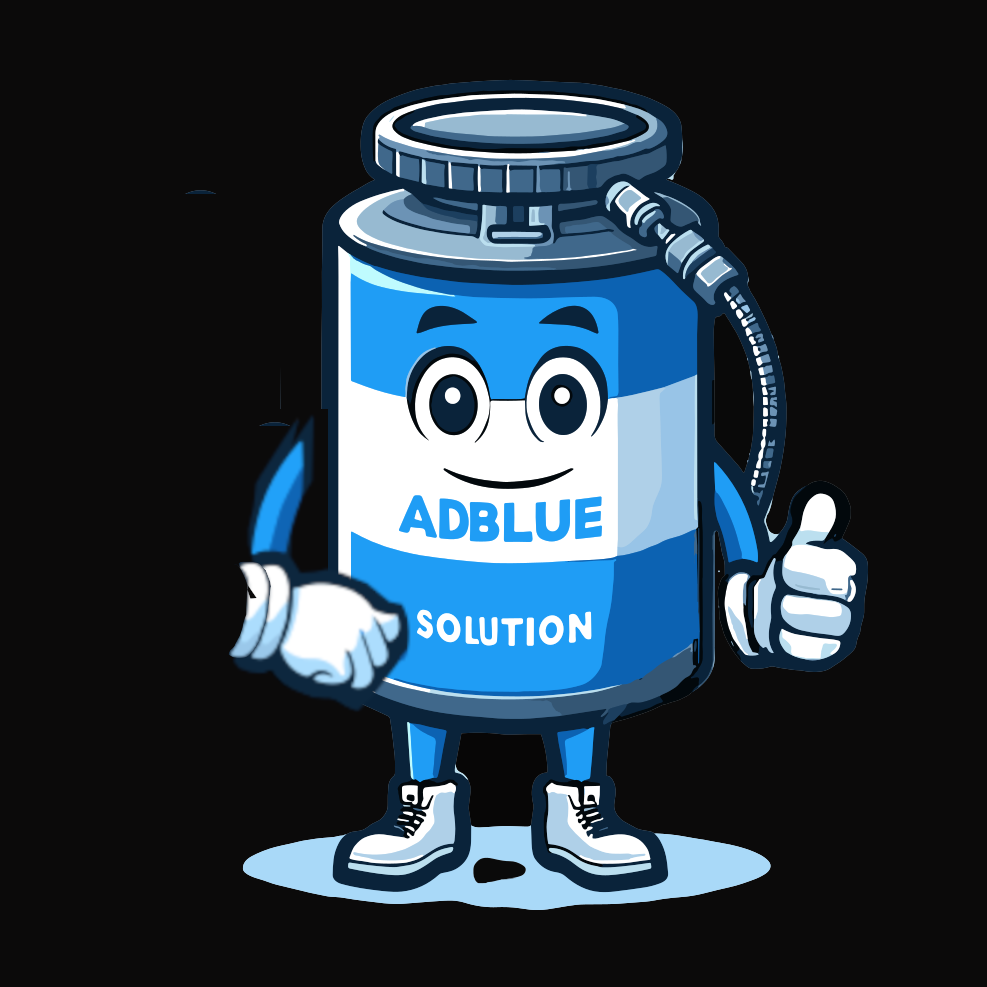
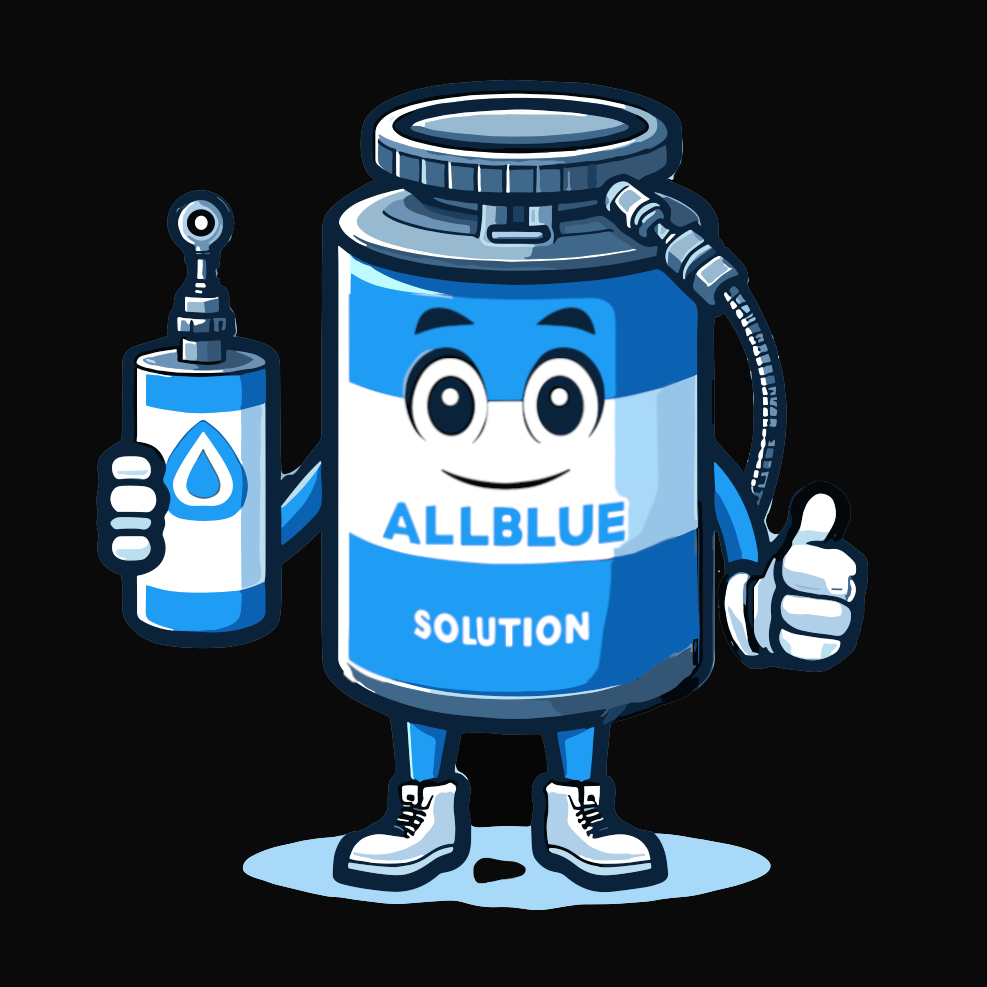
Change to Allblue - 1

Changed region(s): [[0.0912, 0.1824, 0.6383, 0.7295], [0.3343, 0.3647, 0.3647, 0.3951]]

diff --git a/src/pages/About.jsx b/src/pages/About.jsx
@@ -19,37 +19,40 @@ const About = () => {
             <div className="col-md pt-4 pt-xs-2 pt-lg-4">
               <h2 className="pb-2">Who We Are</h2>
               <p className="lead">
-                Adblue Solution are a group of Adblue delete specialists based
+                Allblue Solution are a group of Adblue delete specialists based
                 throughout the UK.
               </p>
-              <p>
+              <p className="lead">
                 We only use technicians with a high level of experience and
                 expertise with an average of 18 years in the business, and we
                 only use the latest in ECU programming equipment (NO CHINESE
                 CLONES) and OUR software which is fully supported by the
                 software developers should we ever need it.
               </p>
-              <p>
+              <p className="lead">
                 We will do a full vehicle diagnostic scan to check all of the
                 cars software and modules so we have a full understanding of
                 what we are dealing with and know exactly what the issue is
                 before we carry out any work. So as a customer you can be rest
                 assured that you are in safe hands at all times.
               </p>
-              <p>
+              <p className="lead">
                 Our goal is to keep you on or get you back on the road without
                 any Adblue Issues, so our customers are always our top priority
                 and we won’t keep you waiting for days to get a confirmed
                 booking.
               </p>
-              <p>
+              <p className="lead">
                 We offer a complete ECU service, not just Adblue delete. For
                 more information please see our services page.
               </p>
-              <a href="/services" className="btn btn-light mt-3">
+              <a href="/services" className="btn btn-light">
                 <i
                   className="fa fa-chevron-right"
-                  style={{ marginRight: "10px" }}
+                  style={{
+                    marginRight: "10px",
+                    backgroundColor: "transparent",
+                  }}
                 ></i>
                 Find Out More
               </a>
@@ -70,9 +73,9 @@ const About = () => {
               />
             </div>
             <div className="col-md pt-2 px-3 pt-sm-0 pb-sm-2 px-sm-4 pt-md-4 py-lg-4">
-              <h2 className="pb-3">AdBlue Solution</h2>
+              <h2 className="pb-3">Allblue Solution</h2>
               <p>
-                At Adblue Solution, with over 15 years in the Engine ECU
+                At Allblue Solution, with over 15 years in the Engine ECU
                 Reprogramming business, we offer an AdBlue removal service that
                 is second to none, for both you and your vehicle. The best part?
                 Say goodbye to all those annoying warning lights and dashboard
@@ -81,11 +84,11 @@ const About = () => {
                 faults nagging at you.
               </p>
               <p>
-                Our Adblue Solution delete is undetectable at the MOT STATION.
+                Our Allblue Solution delete is undetectable at the MOT STATION.
               </p>
               <p>
                 But here's the thing: not all removals are created equal. That's
-                where Adblue Solution shines. We use only genuine specialized
+                where Allblue Solution shines. We use only genuine specialized
                 equipment and UK-based technology with in-house programmers to
                 ensure a safe and risk-free process for your vehicle. No
                 mechanical changes are usually necessary, although some sensors
@@ -93,12 +96,12 @@ const About = () => {
               </p>
               <p>
                 So why settle for anything less when you can trust the experts
-                at Adblue Solution to get the job done?
+                at Allblue Solution to get the job done?
               </p>
               <p>
                 Using our advanced software, we remove and disable the AdBlue
                 system, ensuring your vehicle operates normally without ever
-                needing an AdBlue refill again. With AdBlue Solution, you can
+                needing an AdBlue refill again. With Allblue Solution, you can
                 save money, boost power, and enjoy your vehicle without the
                 usual AdBlue inconveniences.
               </p>

diff --git a/src/pages/Homepage.jsx b/src/pages/Homepage.jsx
@@ -68,7 +68,7 @@ const Homepage = () => {
                 background: "none",
               }}
             >
-              Welcome To Adblue Solution
+              Welcome To Allblue Solution
             </h1>
           </div>
 
@@ -124,7 +124,7 @@ const Homepage = () => {
                   Fully Mobile Service - We Come To You!
                 </h2>
                 <p className="pb-1">
-                  Look no further than Adblue Solution for a trustworthy AdBlue
+                  Look no further than Allblue Solution for a trustworthy AdBlue
                   removal service right in your neighbourhood! Our team of
                   certified AdBlue delete specialists are dedicated to providing
                   top-notch service at unbeatable prices. Plus, with our
@@ -139,7 +139,7 @@ const Homepage = () => {
                   base.
                 </p>
                 <p className="pb-1">
-                  Trust Adblue Solution for reliable AdBlue removal right in
+                  Trust Allblue Solution for reliable AdBlue removal right in
                   your neighbourhood! Our certified specialists provide
                   top-notch service at unbeatable prices, with the added
                   convenience of our mobile service – we come to you!
@@ -152,7 +152,7 @@ const Homepage = () => {
               <img
                 style={{ height: "auto", maxWidth: "100%" }}
                 className="img-fluid"
-                src="/assets/van man white background no slogan.png"
+                src="/assets/van_man_white_background_no_slogan_2-removebg-preview.png"
                 alt=""
               />
             </Col>
@@ -203,7 +203,7 @@ const Homepage = () => {
                 multiple vehicle bookings.
               </p>
               <p>
-                At Adblue Solution, we are dedicated to providing AdBlue
+                At Allblue Solution, we are dedicated to providing AdBlue
                 solutions to customers across a wide geographic area. Our
                 comprehensive coverage ensures that, no matter where you are,
                 you can access the high-quality products and services you need
@@ -213,8 +213,8 @@ const Homepage = () => {
                 With a focus on reliability and professionalism, our
                 comprehensive coverage guarantees access to premium products and
                 services essential for maintaining the smooth operation of your
-                vehicles. Count on Adblue Solution to be your trusted partner in
-                keeping your fleet running efficiently and responsibly.
+                vehicles. Count on Allblue Solution to be your trusted partner
+                in keeping your fleet running efficiently and responsibly.
               </p>
             </Container>
             <p className="lead pt-3" style={{ fontWeight: "bold" }}>

diff --git a/src/pages/TermsAndConditions.jsx b/src/pages/TermsAndConditions.jsx
@@ -8,27 +8,27 @@ const TermsAndConditions = () => {
       <div className="px-2 ">
         <p>
           These terms and conditions outline the rules and regulations for the
-          use of AdBlue Solution's Website, located at www.adbluesolution.com.
+          use of Allblue Solution's Website, located at www.adbluesolution.com.
         </p>
         <p>
           By accessing this website we assume you accept these terms and
-          conditions. Do not continue to use AdBlue Solution if you do not agree
-          to accept all of the terms and conditions stated on this page.
+          conditions. Do not continue to use Allblue Solution if you do not
+          agree to accept all of the terms and conditions stated on this page.
         </p>
         <h3>License</h3>
         <p>
-          Unless otherwise stated, AdBlue Solution and/or its licensors own the
-          intellectual property rights for all material on AdBlue Solution. All
+          Unless otherwise stated, Allblue Solution and/or its licensors own the
+          intellectual property rights for all material on Allblue Solution. All
           intellectual property rights are reserved. You may access this from
-          AdBlue Solution for your own personal use subjected to restrictions
+          Allblue Solution for your own personal use subjected to restrictions
           set in these terms and conditions.
         </p>
         <p>You must not:</p>
         <ul>
-          <li>Republish material from AdBlue Solution</li>
-          <li>Sell, rent or sub-license material from AdBlue Solution</li>
-          <li>Reproduce, duplicate or copy material from AdBlue Solution</li>
-          <li>Redistribute content from AdBlue Solution</li>
+          <li>Republish material from Allblue Solution</li>
+          <li>Sell, rent or sub-license material from Allblue Solution</li>
+          <li>Reproduce, duplicate or copy material from Allblue Solution</li>
+          <li>Redistribute content from Allblue Solution</li>
         </ul>
         <h3>Contact Information</h3>
         <p>

diff --git a/src/pages/Faqs.jsx b/src/pages/Faqs.jsx
@@ -10,10 +10,10 @@ const FaqAccordion = () => {
       <div className="d-flex justify-content-center pb-5">
         <Accordion className="w-75">
           <Accordion.Item eventKey="0">
-            <Accordion.Header>Who is Adblue Solution?</Accordion.Header>
+            <Accordion.Header>Who is Allblue Solution?</Accordion.Header>
             <Accordion.Body>
               <em>
-                Adblue Solution is a group of specialists in Adblue deletion
+                Allblue Solution is a group of specialists in Adblue deletion
                 based throughout the UK. With an average of 18 years of
                 experience, our technicians use the latest ECU programming
                 equipment and proprietary software to provide top-quality
@@ -34,7 +34,7 @@ const FaqAccordion = () => {
           </Accordion.Item>
           <Accordion.Item eventKey="2">
             <Accordion.Header>
-              How does Adblue Solution differ from others?
+              How does Allblue Solution differ from others?
             </Accordion.Header>
             <Accordion.Body>
               <em>
@@ -46,10 +46,10 @@ const FaqAccordion = () => {
             </Accordion.Body>
           </Accordion.Item>
           <Accordion.Item eventKey="3">
-            <Accordion.Header>Why choose Adblue Solution?</Accordion.Header>
+            <Accordion.Header>Why choose Allblue Solution?</Accordion.Header>
             <Accordion.Body>
               <em>
-                Choosing Adblue Solution guarantees a hassle-free experience.
+                Choosing Allblue Solution guarantees a hassle-free experience.
                 Our advanced software enables seamless Adblue system removal,
                 saving you money, boosting power, and eliminating the
                 inconveniences associated with Adblue refills.

diff --git a/src/pages/Disclaimer.jsx b/src/pages/Disclaimer.jsx
@@ -10,10 +10,10 @@ const Disclaimer = () => {
               <h2 className="pb-3">Legal Disclaimer and Guidance</h2>
               <div className="container">
                 <p>
-                  <span style={{ fontWeight: "bold" }}>DISCLAIMER:</span> Adblue
-                  Solution does not advocate or endorse the removal of AdBlue
-                  systems from vehicles without proper consideration of legal
-                  regulations. We encourage our customers to prioritize
+                  <span style={{ fontWeight: "bold" }}>DISCLAIMER:</span>{" "}
+                  Allblue Solution does not advocate or endorse the removal of
+                  AdBlue systems from vehicles without proper consideration of
+                  legal regulations. We encourage our customers to prioritize
                   compliance with emissions standards and to seek professional
                   advice when considering modifications to their vehicles.
                 </p>

diff --git a/src/components/Footer.jsx b/src/components/Footer.jsx
@@ -18,7 +18,7 @@ const Footer = () => {
                 <Center>
                   <div className="footer-logo" />
                   <img
-                    src="/assets/LOGO WHITE NO BG.png"
+                    src="/assets/LOGO WHITE NO BG 2.png"
                     alt="LOGO"
                     className="w-75 mx-3 mb-4"
                   />
@@ -126,7 +126,7 @@ const Footer = () => {
           <div className="row">
             <div className="col">
               <p className="text-center mt-4">
-                &copy; {currentYear} AdBlue Solution. All rights reserved.
+                &copy; {currentYear} Allblue Solution. All rights reserved.
               </p>
             </div>
           </div>

diff --git a/src/components/Navbar.jsx b/src/components/Navbar.jsx
@@ -127,14 +127,14 @@ function NavbarComponent() {
           className="text-center mx-auto d-block d-sm-none pb-5"
         >
           <img
-            src="/assets/LOGO WHITE NO BG.png"
+            src="/assets/LOGO WHITE NO BG 2.png"
             alt="LOGO"
             style={{ width: "80%", marginTop: "-25px" }}
           />
         </Navbar.Brand>
         <Navbar.Brand href="/" className="d-none d-sm-block pb-4">
           <img
-            src="/assets/LOGO WHITE NO BG.png"
+            src="/assets/LOGO WHITE NO BG 2.png"
             alt="LOGO"
             style={{ width: "100%", marginTop: "-25px" }}
           />

diff --git a/src/pages/PrivacyPolicy.jsx b/src/pages/PrivacyPolicy.jsx
@@ -8,7 +8,7 @@ const PrivacyPolicy = () => {
         <Card.Body>
           <Card.Title>Privacy Policy</Card.Title>
           <Card.Text>
-            This Privacy Policy describes how Adblue Solution collects, uses,
+            This Privacy Policy describes how Allblue Solution collects, uses,
             and shares personal information of users of our website{" "}
             <a href="https://www.adbluesolution.co.uk">
               www.adbluesolution.co.uk
